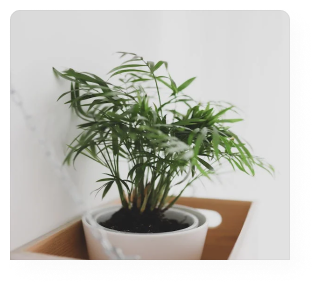
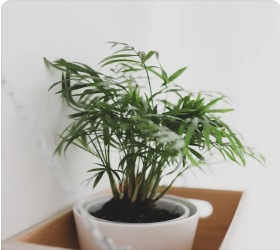
✔Finished "What We Offer To You" Block

diff --git a/index.html b/index.html
@@ -76,7 +76,7 @@
         <div class="wwo-title">What We Offer To You</div>
         <div class="wwo-products-list">
             <div class="wwop-item">
-                <img src="https://via.placeholder.com/280x250" alt="" class="wwop-i-img">
+                <img src="imgs/products/product1.png" alt="" class="wwop-i-img">
                 <div class="wwop-i-title">Cactus Plant</div>
                 <div class="wwop-i-underTitle">
                     <div class="wwop-i-oldCost">10$</div>
@@ -85,7 +85,7 @@
                 </div>
             </div> <!-- /wwop-item -->
             <div class="wwop-item">
-                <img src="https://via.placeholder.com/280x250" alt="" class="wwop-i-img">
+                <img src="imgs/products/product2.png" alt="" class="wwop-i-img">
                 <div class="wwop-i-title">Cactus Plant</div>
                 <div class="wwop-i-underTitle">
                     <div class="wwop-i-oldCost">10$</div>
@@ -94,7 +94,7 @@
                 </div>
             </div> <!-- /wwop-item -->
             <div class="wwop-item">
-                <img src="https://via.placeholder.com/280x250" alt="" class="wwop-i-img">
+                <img src="imgs/products/product3.png" alt="" class="wwop-i-img">
                 <div class="wwop-i-title">Cactus Plant</div>
                 <div class="wwop-i-underTitle">
                     <div class="wwop-i-oldCost">10$</div>
@@ -103,7 +103,7 @@
                 </div>
             </div> <!-- /wwop-item -->
             <div class="wwop-item">
-                <img src="https://via.placeholder.com/280x250" alt="" class="wwop-i-img">
+                <img src="imgs/products/product4.png" alt="" class="wwop-i-img">
                 <div class="wwop-i-title">Cactus Plant</div>
                 <div class="wwop-i-underTitle">
                     <div class="wwop-i-oldCost">10$</div>
@@ -112,7 +112,7 @@
                 </div>
             </div> <!-- /wwop-item -->
             <div class="wwop-item">
-                <img src="https://via.placeholder.com/280x250" alt="" class="wwop-i-img">
+                <img src="imgs/products/product5.png" alt="" class="wwop-i-img">
                 <div class="wwop-i-title">Cactus Plant</div>
                 <div class="wwop-i-underTitle">
                     <div class="wwop-i-oldCost">10$</div>
@@ -121,7 +121,7 @@
                 </div>
             </div> <!-- /wwop-item -->
             <div class="wwop-item">
-                <img src="https://via.placeholder.com/280x250" alt="" class="wwop-i-img">
+                <img src="imgs/products/product6.png" alt="" class="wwop-i-img">
                 <div class="wwop-i-title">Cactus Plant</div>
                 <div class="wwop-i-underTitle">
                     <div class="wwop-i-oldCost">10$</div>
@@ -130,7 +130,7 @@
                 </div>
             </div> <!-- /wwop-item -->
             <div class="wwop-item">
-                <img src="https://via.placeholder.com/280x250" alt="" class="wwop-i-img">
+                <img src="imgs/products/product7.png" alt="" class="wwop-i-img">
                 <div class="wwop-i-title">Cactus Plant</div>
                 <div class="wwop-i-underTitle">
                     <div class="wwop-i-oldCost">10$</div>
@@ -139,7 +139,7 @@
                 </div>
             </div> <!-- /wwop-item -->
             <div class="wwop-item">
-                <img src="https://via.placeholder.com/280x250" alt="" class="wwop-i-img">
+                <img src="imgs/products/product8.png" alt="" class="wwop-i-img">
                 <div class="wwop-i-title">Cactus Plant</div>
                 <div class="wwop-i-underTitle">
                     <div class="wwop-i-oldCost">10$</div>
@@ -147,8 +147,6 @@
                     <button class="wwop-i-buynow">Buy Now</button>
                 </div>
             </div> <!-- /wwop-item -->
-        
-        
     </div>
 <!-- /Products - What We Offer To You -->
 

diff --git a/styles/main.css b/styles/main.css
@@ -306,6 +306,8 @@ body {
 
 .wwop-i-img {
     border-radius: 10px 10px 0 0;
+    width: 280px;
+    height: 250px;
 }
 
 /* .wwop-i-favourite {
@@ -316,7 +318,7 @@ body {
 /* <img class="wwop-i-favourite" src="imgs/products/Love0.png"> */
 
 .wwop-i-title {
-    padding: 10px 45px 5px 24px;
+    padding: 10px 0 5px 24px;
 
     font-family: 'Lato';
     font-style: normal;
@@ -344,7 +346,7 @@ body {
 }
 
 .wwop-i-cost {
-    padding: 0 86px 10px 0;
+    padding: 0 0 10px 0;
 
     font-style: normal;
     font-weight: 700;
@@ -355,12 +357,13 @@ body {
 .wwop-i-buynow {
     position: relative;
     bottom: 13px;
+    left: 86px;
     width: 98px;
     height: 33px;
 
-    background: #337A5B;
+    background: #FFFFFF;
     border-radius: 3px;
-    border: none;
+    border: 1px solid rgba(51, 122, 91, 0.6);
     cursor: pointer;
 
     font-family: 'Lato';
@@ -369,7 +372,14 @@ body {
     font-size: 12px;
     line-height: 140%;
 
+    color: #337A5B;
+    
+    transition: background 0.3s linear;
+}
+
+.wwop-i-buynow:hover {
     color: #FFFFFF;
+    background-color: #337A5B;
 }
 
 /* /Products - What We Offer To You*/
